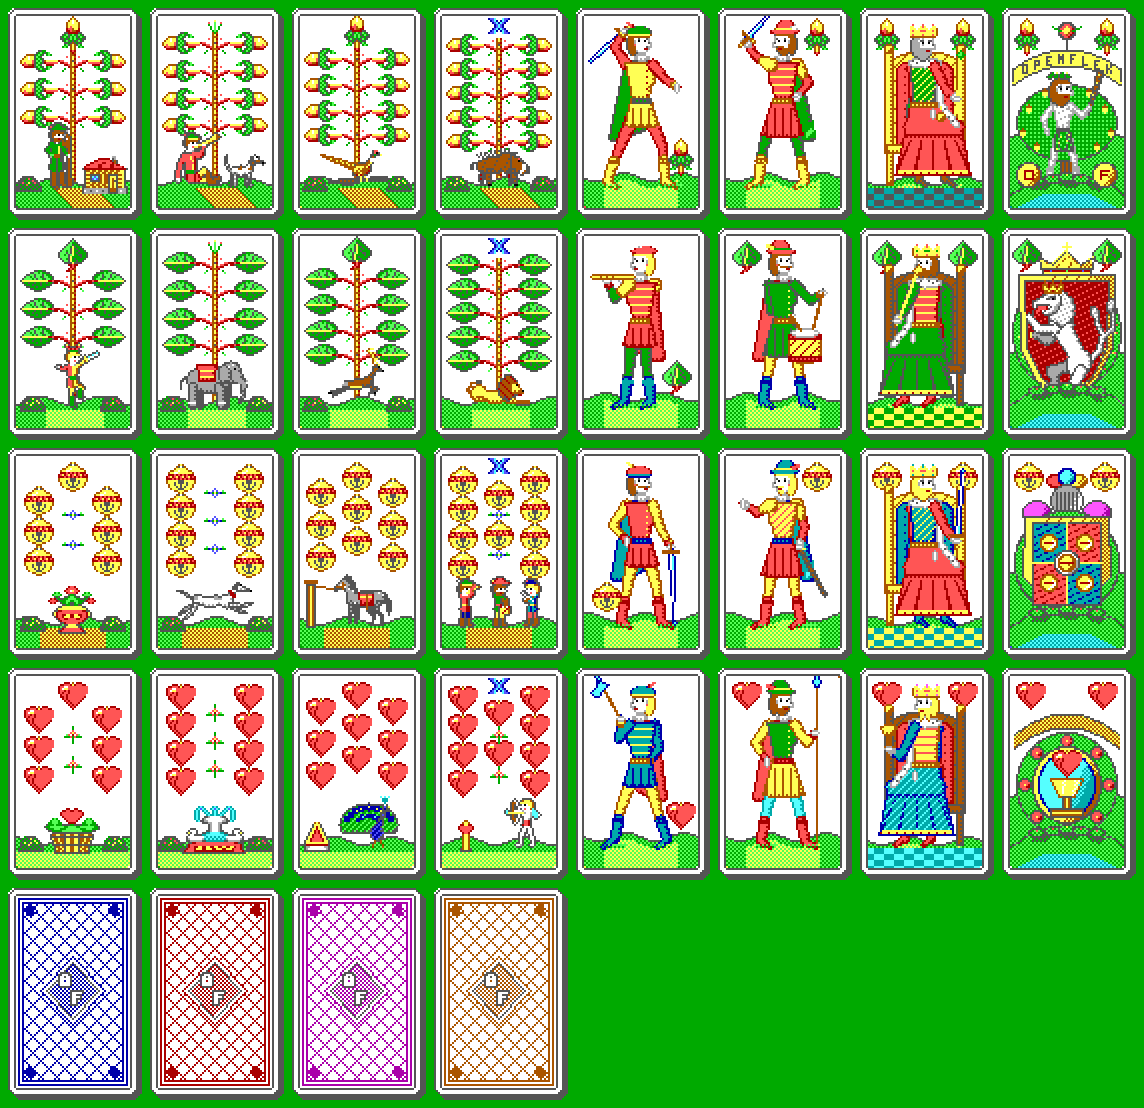
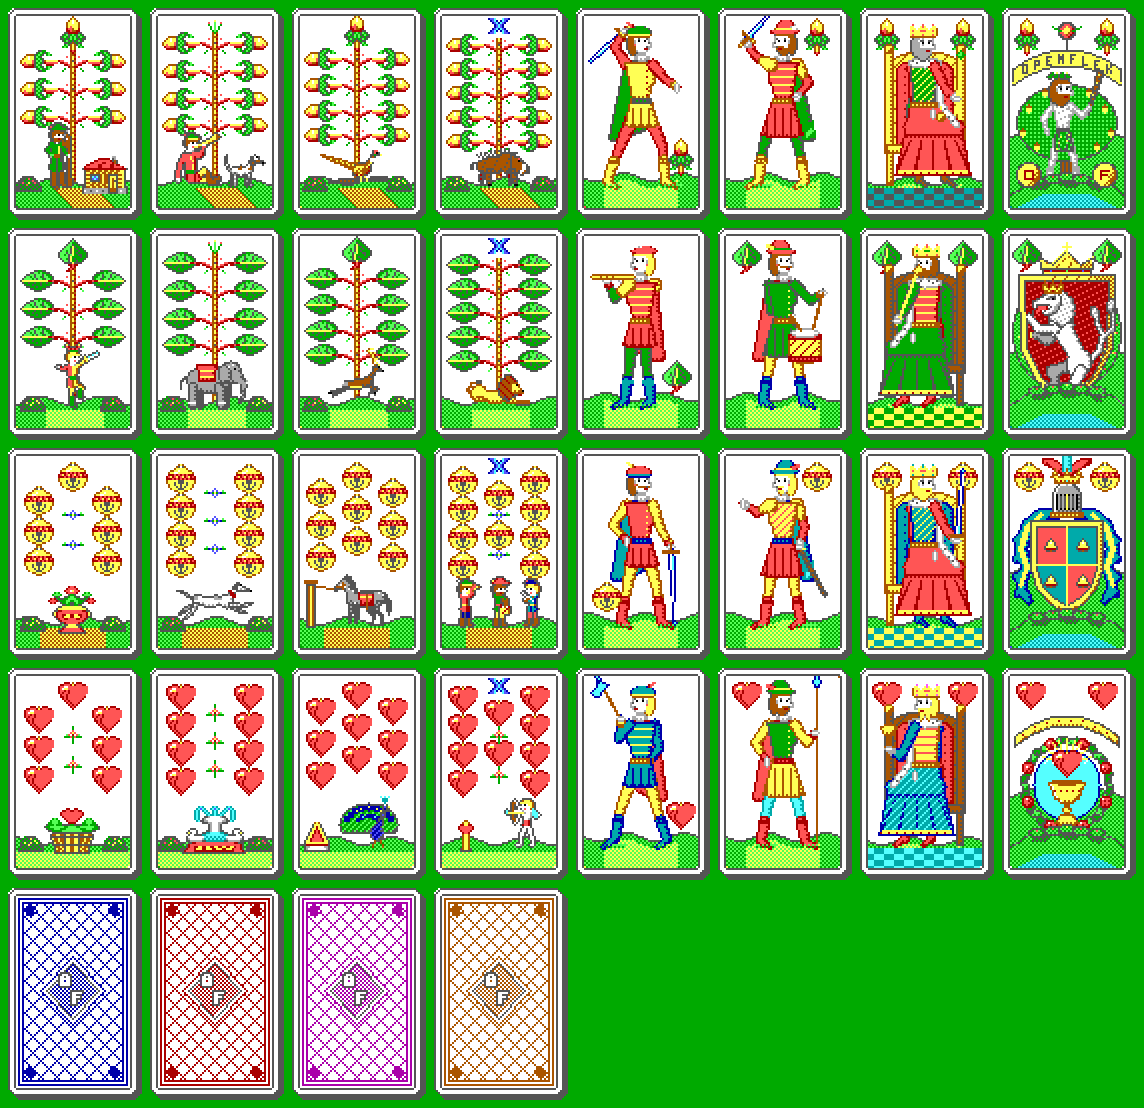
redraw bell ace helm and mantling, heart ace wreath and chalice

Changed region(s): [[0.8872, 0.3989, 0.979, 0.583], [0.8872, 0.6444, 0.979, 0.7671]]

diff --git a/scripts/deck_gen/aces.py b/scripts/deck_gen/aces.py
@@ -2,6 +2,7 @@
 
 import math
 from scripts.deck_gen.palette import (
+    BLACK,
     BLUE,
     BROWN,
     CYAN,
@@ -11,15 +12,26 @@ from scripts.deck_gen.palette import (
     LIGHT_CYAN,
     LIGHT_GRAY,
     LIGHT_GREEN,
-    LIGHT_MAGENTA,
     LIGHT_RED,
-    MAGENTA,
     RED,
     WHITE,
     YELLOW,
 )
 from scripts.deck_gen import animals, people
+from scripts.deck_gen.rig import Rig, darker
 from scripts.deck_gen.symbols import draw_suit
+
+
+# Small gold bell (7x7) charged on the Bell Ace shield.
+MINI_BELL = [
+    '...8...',
+    '..8e8..',
+    '.8efe8.',
+    '.8eee8.',
+    '8eeeee8',
+    '8444448',
+    '.88688.',
+]
 
 
 def _fill_ace_ground(c, top_y=52, water=True):
@@ -189,40 +201,50 @@ def draw_ace_bell(c):
     draw_suit(c, 2, 11, 12)
     draw_suit(c, 2, 49, 12)
 
-    # Crested Knight's Tournament Helm at top center (y=10..33, x=21..39)
-    c.fill_ellipse(25, 14, 5, 3, LIGHT_RED, RED, outline=RED)
-    c.fill_ellipse(35, 14, 5, 3, YELLOW, BROWN, outline=BROWN)
-    c.fill_ellipse(30, 12, 4, 4, LIGHT_CYAN, CYAN, outline=BLUE)
-    c.fill_ellipse(30, 24, 8, 8, LIGHT_GRAY, WHITE, outline=DARK_GRAY)
-    for vx in range(25, 36, 2):
-        c.line(vx, 20, vx, 28, YELLOW if vx == 30 else DARK_GRAY)
-    # Flowing crimson/magenta & gold mantling scrolls flanking helm and shield
-    c.fill_ellipse(15, 30, 7, 6, LIGHT_MAGENTA, MAGENTA, outline=DARK_GRAY)
-    c.fill_ellipse(45, 30, 7, 6, LIGHT_MAGENTA, MAGENTA, outline=DARK_GRAY)
-    c.fill_ellipse(30, 55, 26, 26, GREEN, LIGHT_GREEN, outline=DARK_GRAY, mode='checker')
+    # Acanthus mantling flowing from the helm down both sides of the shield:
+    # cyan cloth with a gold lining, its edge cut into curling leaves.
+    for flip in (False, True):
+        r = Rig(c, flip=flip)
+        stem = [(26, 30), (17, 31), (10, 38), (7, 48), (10, 57), (7, 66), (11, 74)]
+        mant = r.part().chain(stem, [3.0, 3.6, 3.8, 3.6, 3.2, 2.8, 2.2])
+        for (ax, ay), (bx, by) in zip(stem[1:], stem[2:]):
+            mant.ellipse((ax + bx) / 2 - 3, (ay + by) / 2, 3.2, 2.4, angle=-30)
+        mant.paint(CYAN, shade=BLUE, outline=BLUE)
+        r.part().chain(stem[1:-1], [1.3, 1.5, 1.5, 1.3, 1.1]).paint(YELLOW, None, outline=None)
 
-    # Golden baroque cartouche border reaching down to y=84
-    c.fill_poly([(9, 32), (51, 32), (52, 62), (30, 84), (8, 62)], YELLOW, BROWN, outline=DARK_GRAY)
-    # Inner quartered shield (x=13..47, y=35..76)
-    c.fill_rect(13, 35, 30, 55, CYAN, BLUE, mode='drape')
-    c.fill_rect(30, 55, 47, 76, CYAN, BLUE, mode='drape')
-    c.fill_rect(30, 35, 47, 55, LIGHT_RED, RED, mode='drape')
-    c.fill_rect(13, 55, 30, 76, LIGHT_RED, RED, mode='drape')
-    c.rect(13, 35, 47, 76, DARK_GRAY)
-    c.line(30, 35, 30, 76, YELLOW)
-    c.line(13, 55, 47, 55, YELLOW)
+    # Heater shield quartered azure and gules, with a gold rim.
+    rim = [(12, 34), (48, 34), (48, 58), (45, 68), (38, 76), (30, 81), (22, 76), (15, 68), (12, 58)]
+    field = [(15, 37), (45, 37), (45, 58), (42, 67), (36, 73), (30, 77), (24, 73), (18, 67), (15, 58)]
+    plain = Rig(c)
+    plain.part().poly(rim).paint(YELLOW, outline=DARK_GRAY)
+    shield = plain.part().poly(field)
 
-    # Heraldic charges in the 4 quarters
-    for qx, qy in [(21, 45), (39, 45), (21, 65), (39, 65)]:
-        c.fill_ellipse(qx, qy, 4, 4, YELLOW, WHITE, outline=BROWN)
-        c.line(qx - 2, qy, qx + 2, qy, RED)
+    def quarters(x, y):
+        return LIGHT_RED if (x < 30) == (y < 56) else CYAN
 
-    # Central Bell escutcheon at (30, 55)
-    c.fill_ellipse(30, 55, 6, 6, WHITE, LIGHT_GRAY, outline=DARK_GRAY)
-    c.fill_ellipse(30, 55, 4, 4, YELLOW, BROWN, outline=BROWN)
-    c.line(27, 55, 33, 55, RED)
+    shield.paint(CYAN, None, outline=DARK_GRAY, pattern=quarters)
+    c.line(30, 37, 30, 77, YELLOW)
+    c.line(15, 56, 45, 56, YELLOW)
+    for qx, qy in [(22, 46), (38, 46), (22, 64), (38, 64)]:
+        c.blit_centered(MINI_BELL, qx, qy)
 
-    _overlap_foreground_turf(c, base_y=80)
+    # Barred tournament helm above the shield, crowned and plumed.
+    for tip, mid, col in (((19, 4), (24, 6), LIGHT_RED), ((41, 4), (36, 6), LIGHT_RED), ((30, 1), (30, 5), LIGHT_CYAN)):
+        plain.part().chain([(30, 12), mid, tip], [1.6, 2.8, 1.8]).paint(col, outline=darker(col))
+    helm = plain.part().ellipse(30, 22, 7.5, 8).rect(23, 22, 37, 30)
+    helm.paint(LIGHT_GRAY, light=WHITE, outline=DARK_GRAY)
+    plain.part().rect(25, 21, 35, 28).paint(DARK_GRAY, None, outline=BLACK)
+    for vx in range(26, 35, 2):
+        c.line(vx, 21, vx, 28, YELLOW if vx == 30 else LIGHT_GRAY)
+    plain.part().rect(22, 30, 38, 32).paint(YELLOW)
+    crown = plain.part().rect(24, 12, 36, 15)
+    for px in (24, 30, 36):
+        crown.poly([(px - 2, 13), (px, 8), (px + 2, 13)])
+    crown.paint(YELLOW)
+    for px, col in ((27, RED), (30, LIGHT_CYAN), (33, RED)):
+        c.put(px, 14, col)
+
+    _overlap_foreground_turf(c, base_y=82)
 
 
 def draw_ace_heart(c):
@@ -233,36 +255,43 @@ def draw_ace_heart(c):
     draw_suit(c, 3, 12, 12)
     draw_suit(c, 3, 48, 12)
 
-    # Overarching golden baroque scroll arch (y=21..35, x=4..56)
+    r = Rig(c)
+    # Golden arch over the wreath, studded with garnets.
+    arch = r.part()
     for x in range(4, 57):
         dx = abs(x - 30)
-        ay = 22 + (dx * dx) // 65
-        c.put(x, ay - 1, DARK_GRAY)
-        for ry in range(ay, ay + 6):
-            c.put(x, ry, YELLOW if ((x + ry) & 1) == 0 else BROWN)
-        c.put(x, ay + 6, DARK_GRAY)
+        arch.rect(x, 22 + (dx * dx) // 65, x, 27 + (dx * dx) // 65)
+    arch.paint(YELLOW, outline=DARK_GRAY)
+    for x in range(8, 54, 6):
+        dx = abs(x - 30)
+        c.put(x, 24 + (dx * dx) // 65, RED)
 
-    # Lush rose-and-leaf oval wreath (center=(30, 56), rx=25, ry=26, reaching y=30..82)
-    c.fill_ellipse(30, 56, 25, 26, GREEN, LIGHT_GREEN, outline=DARK_GRAY, mode='checker')
-    for angle_deg in range(0, 360, 45):
-        rad = math.radians(angle_deg)
-        rx = int(round(30 + 21 * math.cos(rad)))
-        ry = int(round(56 + 22 * math.sin(rad)))
-        c.fill_ellipse(rx, ry, 3, 3, LIGHT_RED, RED, outline=DARK_GRAY)
-        c.put(rx, ry, YELLOW)
+    # Wreath of leaves around an oval of sky, roses set at intervals.
+    for k in range(36):
+        a = math.radians(k * 10)
+        lx, ly = 30 + 21 * math.cos(a), 56 + 22 * math.sin(a)
+        col = GREEN if k % 2 else LIGHT_GREEN
+        r.part().ellipse(lx, ly, 4.2, 2.2, angle=k * 10 + 90 + (25 if k % 2 else -25)).paint(col, outline=DARK_GRAY)
+    r.part().ellipse(30, 56, 17, 18).paint(LIGHT_CYAN, None, outline=BLUE, pattern=lambda x, y: WHITE if y < 46 and (x + y) % 4 == 0 else None)
+    for k in range(8):
+        a = math.radians(k * 45 + 22.5)
+        rx, ry = 30 + 21 * math.cos(a), 56 + 22 * math.sin(a)
+        r.part().ellipse(rx, ry, 3.2, 3.0).paint(LIGHT_RED, outline=RED)
+        c.put(round(rx), round(ry), RED)
+        c.put(round(rx) - 1, round(ry) - 1, WHITE)
 
-    # Inner golden & azure cartouche shield
-    c.fill_ellipse(30, 56, 17, 19, YELLOW, BROWN, outline=DARK_GRAY)
-    c.fill_ellipse(30, 56, 14, 16, LIGHT_CYAN, CYAN, outline=BLUE)
-
-    # Golden royal chalice & glowing crowned heart inside the cartouche
-    c.fill_poly([(22, 53), (38, 53), (34, 62), (26, 62)], YELLOW, WHITE, outline=BROWN)
-    c.fill_rect(28, 62, 32, 68, YELLOW, BROWN, mode='vstripe')
-    c.rect(28, 62, 32, 68, DARK_GRAY)
-    c.fill_rect(22, 68, 38, 72, YELLOW, BROWN, mode='hstripe')
-    c.rect(22, 68, 38, 72, DARK_GRAY)
-    # Heart rising above the chalice
+    # Rays of light behind the heart.
+    for k in range(9):
+        a = math.radians(200 + k * 17.5)
+        c.line(30 + 6 * math.cos(a), 46 + 6 * math.sin(a), 30 + 13 * math.cos(a), 46 + 13 * math.sin(a), YELLOW)
     draw_suit(c, 3, 30, 46)
+
+    # Golden chalice: wide cup, knopped stem and a broad foot.
+    cup = r.part().poly([(21, 55), (39, 55), (36, 63), (31, 66), (29, 66), (24, 63)]).ellipse(30, 55, 9, 1.6)
+    cup.paint(YELLOW, light=WHITE, outline=BROWN, pattern=lambda x, y: RED if y == 59 and x % 3 == 0 else None)
+    r.part().ellipse(30, 55, 8, 1.2).fill(BROWN)
+    r.part().rect(29, 66, 31, 71).ellipse(30, 68.5, 2.4, 1.4).paint(YELLOW, outline=BROWN)
+    r.part().poly([(24, 75), (36, 75), (33, 71), (27, 71)]).ellipse(30, 75, 6.5, 1.5).paint(YELLOW, outline=BROWN)
 
     _overlap_foreground_turf(c, base_y=80)
 
